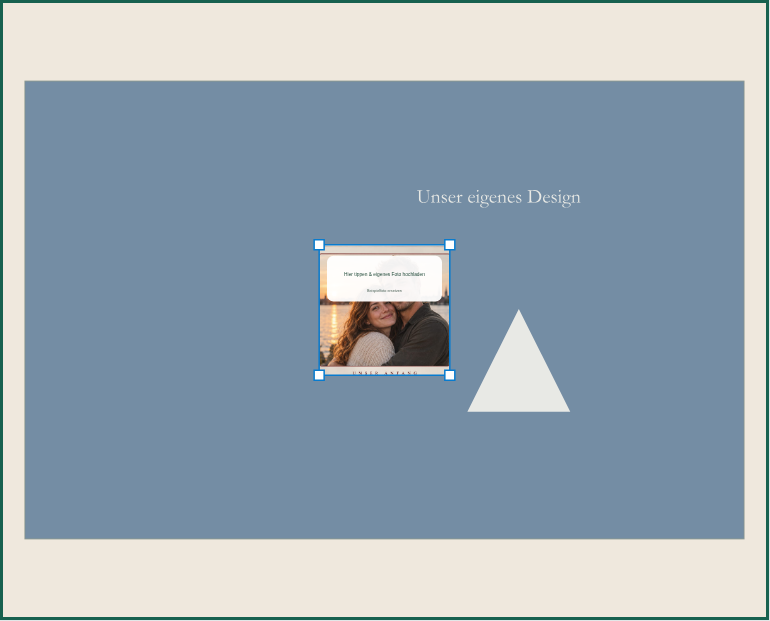
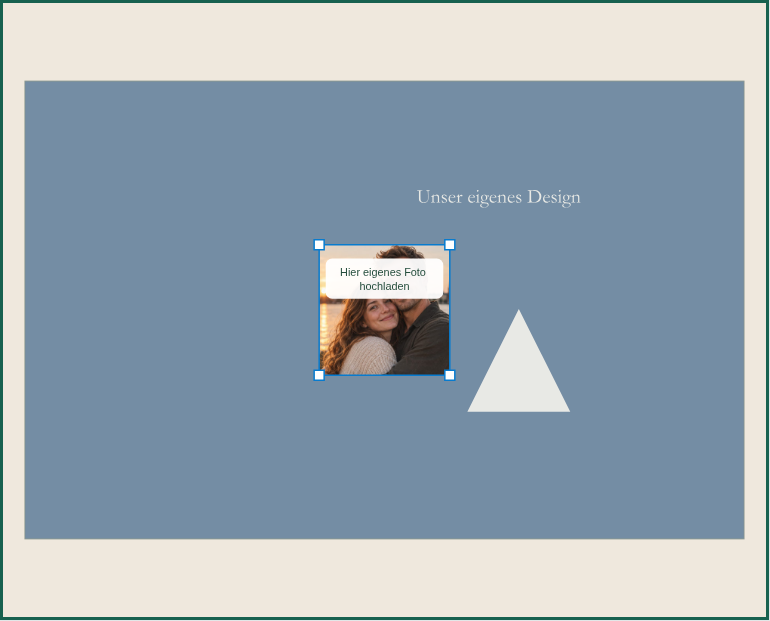
Record final selection and PDF browser checks with real photo sample

Changed region(s): [[0.4052, 0.3977, 0.5922, 0.6119]]

diff --git a/START_HERE.md b/START_HERE.md
@@ -1,3 +1,9 @@
+## Aktuell: Auswahl, PDF-Bearbeitung und Musterfoto korrigiert · 11.10.2026
+
+Veröffentlichungskandidat: sichtbare Auswahlgriffe, Maus/Touch, abbrechbare Vorschau; PDF/SVG standardmäßig in getrennte Bestandteile aufbereiten, Originaltexte gezielt in native Werkstatttexte umwandeln; echte Musterfotos mit lesbarem Hinweis. 650 Regressionstests und 21 abschließende gezielte Prüfungen bestanden. Browserablauf mit synthetischer Shopify-Identität bestanden, alle 20 erreichbaren Original-PDFs aufbereitbar. Private Datenbanken vor Veröffentlichung auf Server und in Cloud gesichert. Kein vollständiger Abschluss des Master-Bauplans oder echter Nutzerlogin behauptet.
+
+[Bericht, Bedienung und Grenzen](docs/releases/20261011/selection-pdf/RELEASE.md). Nächster Schritt: Paket isoliert installieren, getrennten Händlerhost aktualisieren und HTTPS/Datenerhalt prüfen. Folgende Abschnitte sind historische Stände.
+
 ## Aktuell: vollständige Händlergestaltung veröffentlicht · 11.10.2026
 
 Quellstand **74e7670** läuft auf dem getrennten Händlerhost. Eigene Designs, Texte, Bibliotheks-/Uploadmotive, Fotofelder, Verschieben/Entfernen/Reihenfolge und sichtbare Tonwerte in importierten Fotos. Kundenrechte getrennt; neue Produktrevision 3 und sämtliche Originale erhalten. **649 Tests**, anschließende gezielte Originalprüfungen, Desktop-/Mobilbedienung mit **207 authentifizierten API-Aufrufen**, isolierte Paketinstallation/Neustart und HTTPS bestanden. Browseranmeldung synthetisch; keine echte Shopify-Nutzeranmeldung oder Maschinenabnahme behaupten.

diff --git a/STATUS.md b/STATUS.md
@@ -1,3 +1,9 @@
+## Aktuell: Auswahl, PDF-Bearbeitung und Musterfoto korrigiert · 11.10.2026
+
+Veröffentlichungskandidat: sichtbare Auswahlgriffe, Maus/Touch, abbrechbare Vorschau; PDF/SVG standardmäßig in getrennte Bestandteile aufbereiten, Originaltexte gezielt in native Werkstatttexte umwandeln; echte Musterfotos mit lesbarem Hinweis. 650 Regressionstests und 21 abschließende gezielte Prüfungen bestanden. Browserablauf mit synthetischer Shopify-Identität bestanden, alle 20 erreichbaren Original-PDFs aufbereitbar. Private Datenbanken vor Veröffentlichung auf Server und in Cloud gesichert. Kein vollständiger Abschluss des Master-Bauplans oder echter Nutzerlogin behauptet.
+
+[Bericht, Bedienung und Grenzen](docs/releases/20261011/selection-pdf/RELEASE.md). Nächster Schritt: Paket isoliert installieren, getrennten Händlerhost aktualisieren und HTTPS/Datenerhalt prüfen. Folgende Abschnitte sind historische Stände.
+
 ## Live: eigene Designs, Texte, Motive und Musterfotos · 11.10.2026
 
 Aktuelles Paket ergänzt eigene Designs, native Texte/Fotofelder, Bibliotheks-/Uploadmotive, Ersetzen/Entfernen/Reihenfolge und direktes Verschieben. Foto-Tonwerte in importierten Designs erhalten; JPG/PNG/WebP-Beispielfotos samt privaten Originalen. Kundenrechte bleiben getrennt, Originale und bestehende Revisionen erhalten. Aktuelle private Produktrevision 3 vor Änderung gesichert.
